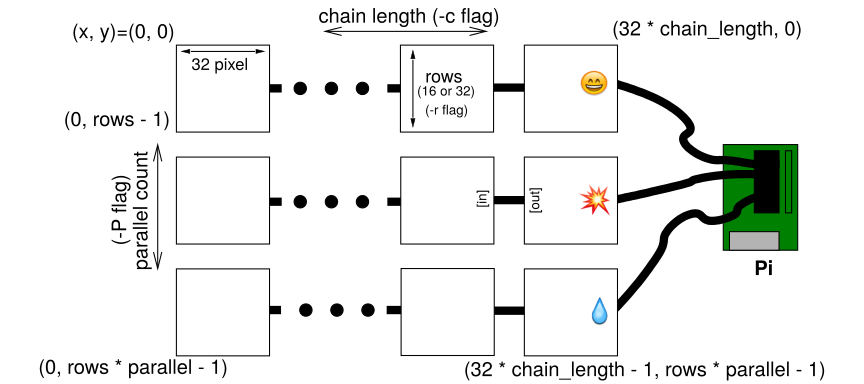
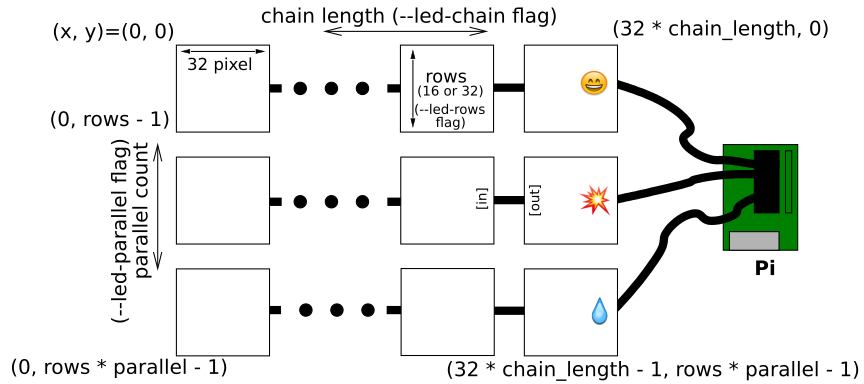
o First round in updating the documentation.

diff --git a/README.md b/README.md
@@ -52,13 +52,13 @@ Types of Displays
 There are various types of displays that come all with the same Hub75 connector.
 They vary in the way the multiplexing is happening.
 
-Type  | Scan Multiplexing | Program Option  | Remark
------:|:-----------------:|:----------------|-------
-64x64 |  1:32             | -r 64 -c 2      | For displays with E line.
-32x32 |  1:16             | -r 32           |
-32x64 |  1:16             | -r 32 -c 2      | internally two chained 32x32
-16x32 |  1:8              | -r 16           |
-?     |  1:4              | -r 8            | (not tested myself)
+Type  | Scan Multiplexing | Program Option               | Remark
+-----:|:-----------------:|:-----------------------------|-------
+64x64 |  1:32             | --led-rows=64 --led-chain=2  | For displays with E line.
+32x32 |  1:16             | --led-rows=32                |
+32x64 |  1:16             | --led-rows=32 --led-chain=2  | internally two chained 32x32
+16x32 |  1:8              | --led-rows=16                |
+?     |  1:4              | --led-rows=8                 | (not tested myself)
 
 These can be chained by connecting the output of one panel to the input of
 the next panel. You can chain quite a few together.
@@ -104,7 +104,7 @@ Chaining panels
 We might only have a limited amount of GPIOs on the Raspberry Pi, but luckily,
 the RGB matrices can be chained. The display panels have an input connector,
 and also have an output port, that you can connect to the next display in a
-daisy-chain manner. There is the flag `-c` in the demo program to give number
+daisy-chain manner. There is the flag `--led-chain` in the demo program to give number
 of displays that are chained.
 You end up with a very wide display (chain * 32 pixels).
 
@@ -176,38 +176,54 @@ If you encounter this, try these things
      slow down the GPIO writing a bit. This will of course reduce the
      frame-rate, so it comes at a cost.
 
-For GPIO slow-down, the following line in the [lib/Makefile](lib/Makefile)
-is interesting:
-
-     DEFINES+=-DRGB_SLOWDOWN_GPIO=1
+For GPIO slow-down, add the flag `--led-slowdown-gpio=2` to the invocation of
+the binary.
 
 The default value is 1, if you still have problems, try the value 2. If you
-know that your display is fast enough, try to comment out that line.
+know that your display is fast enough, use 0 (zero).
 
 Then `make` again.
 
 ### Ghosting
 Some panels have trouble with sharp contrasts and short pulses that results
 in ghosting. It is particularly apparent with very sharp contrasts, such as
-bright text on black background. This can be improved by tweaking the `LSB_PWM_NANOSECONDS`
-parameter in [lib/Makefile](./lib/Makefile). See description there for details.
+bright text on black background. This can be improved by tweaking the
+`--led-pwm-lsb-nanoseconds` parameter.
 
 The following example is a little exaggerated:
 
-Ghosting with low LSB_PWM_NANOSECONDS  | No ghosting after tweaking
----------------------------------------|------------------------------
-![](img/text-ghosting.jpg)             |![](img/text-no-ghosting.jpg)
+Ghosting with low --led-pwm-lsb-nanoseconds  | No ghosting after tweaking
+---------------------------------------------|------------------------------
+![](img/text-ghosting.jpg)                   |![](img/text-no-ghosting.jpg)
 
 ### Inverted Colors ?
 
 There are some displays out there that use inverse logic for the colors. You
 notice that your image looks like a 'negative'. The parameter to tweak is
-`INVERSE_RGB_DISPLAY_COLORS` in [lib/Makefile](./lib/Makefile).
+`--led-inverse`.
 
-### Check configuration in lib/Makefile
+### Check configuration via command line flags.
 
-There are lots of parameters in [lib/Makefile](./lib/Makefile) that you might
-be interested in tweaking.
+There are lots of parameters exposed as command line flags.
+```
+# These are the most important
+--led-rows=<rows>         : Panel rows. 8, 16, 32 or 64. (Default: 32).
+--led-chain=<chained>     : Number of daisy-chained panels. (Default: 1).
+--led-parallel=<parallel> : For A/B+ models or RPi2,3b: parallel chains. range=1..3 (Default: 1).
+
+# These are for tweaking
+--led-pwm-bits=<1..11>    : PWM bits (Default: 11).
+--led-brightness=<percent>: Brightness in percent (Default: 100).
+--led-scan-mode=<0..1>    : 0 = progressive; 1 = interlaced (Default: 0).
+--led-show-refresh        : Show refresh rate.
+--led-inverse             : Switch if your matrix has inverse colors on.
+--led-swap-green-blue     : Switch if your matrix has green/blue swapped on.
+--led-pwm-lsb-nanoseconds : PWM Nanoseconds for LSB (Default: 130)
+--led-no-hardware-pulse   : Don't use hardware pin-pulse generation.
+--led-slowdown-gpio=<0..2>: Slowdown GPIO. Needed for faster Pis and/or slower panels (Default: 1).
+--led-daemon              : Make the process run in the background as daemon.
+--led-no-drop-privs       : Don't drop privileges from 'root' after initializing the hardware.
+```
 
 If you have an Adafruit HAT
 ---------------------------
@@ -227,14 +243,13 @@ The Adafruit HAT uses a modified pinout, so they forked this library and
 modified the pinout there. However, that fork is _ancient_, so I strongly
 suggest to use this original library instead.
 
-In this library here, you have to uncomment the following line in
-the [lib/Makefile](./lib/Makefile)
+In this library here, you can choose the Adafruit HAT pinout by editing
+`lib/Makefile` and change `HARDWARE_DESC?=regular` to `HARDWARE_DESC=adafruit-hat`.
 
+Alternatively, you can prefix the compilation call with this variable like so:
 ```
-#DEFINES+=-DADAFRUIT_RGBMATRIX_HAT
+HARDWARE_DESC=adafruit-hat make
 ```
-Uncommenting means: remove the `#` in front of that line.
-
 Then re-compile and a display connected to the HAT should work.
 
 ### Improving flicker

diff --git a/examples-api-use/README.md b/examples-api-use/README.md
@@ -6,24 +6,25 @@ the display type you have (16x32 or 32x32), and how many you have chained.
 ```
 $ make
 $ ./demo
-Expected required option -D <demo>
 usage: ./demo <options> -D <demo-nr> [optional parameter]
 Options:
-        -r <rows>     : Panel rows. '16' for 16x32 (1:8 multiplexing),
-                        '32' for 32x32 (1:16), '8' for 1:4 multiplexing; Default: 32
-        -P <parallel> : For Plus-models or RPi2: parallel chains. 1..3. Default: 1
-        -c <chained>  : Daisy-chained boards. Default: 1.
-        -L            : 'Large' display, composed out of 4 times 32x32
-        -p <pwm-bits> : Bits used for PWM. Something between 1..11
-        -l            : Don't do luminance correction (CIE1931)
-        -D <demo-nr>  : Always needs to be set
-        -d            : run as daemon. Use this when starting in
-                        /etc/init.d, but also when running without
-                        terminal (e.g. cron).
-        -t <seconds>  : Run for these number of seconds, then exit.
-                        (if neither -d nor -t are supplied, waits for <RETURN>)
-        -b <brightnes>: Sets brightness percent. Default: 100.
-        -R <rotation> : Sets the rotation of matrix. Allowed: 0, 90, 180, 270. Default: 0.
+        -D <demo-nr>              : Always needs to be set
+        -t <seconds>              : Run for these number of seconds, then exit.
+        -R <rotation>             : Sets the rotation of matrix. Allowed: 0, 90, 180, 270. Default: 0.
+        --led-rows=<rows>         : Panel rows. 8, 16, 32 or 64. (Default: 32).
+        --led-chain=<chained>     : Number of daisy-chained panels. (Default: 1).
+        --led-parallel=<parallel> : For A/B+ models or RPi2,3b: parallel chains. range=1..3 (Default: 1).
+        --led-pwm-bits=<1..11>    : PWM bits (Default: 11).
+        --led-brightness=<percent>: Brightness in percent (Default: 100).
+        --led-scan-mode=<0..1>    : 0 = progressive; 1 = interlaced (Default: 0).
+        --led-show-refresh        : Show refresh rate.
+        --led-inverse             : Switch if your matrix has inverse colors on.
+        --led-swap-green-blue     : Switch if your matrix has green/blue swapped on.
+        --led-pwm-lsb-nanoseconds : PWM Nanoseconds for LSB (Default: 130)
+        --led-no-hardware-pulse   : Don't use hardware pin-pulse generation.
+        --led-slowdown-gpio=<0..2>: Slowdown GPIO. Needed for faster Pis and/or slower panels (Default: 1).
+        --led-daemon              : Make the process run in the background as daemon.
+        --led-no-drop-privs       : Don't drop privileges from 'root' after initializing the hardware.
 Demos, choosen with -D
         0  - some rotating square
         1  - forward scrolling an image (-m <scroll-ms>)

diff --git a/adapter/passive-3/README.md b/adapter/passive-3/README.md
@@ -1,7 +1,7 @@
 Adapter PCB to support up to 3 panel chains
 ===========================================
 
-   * Passive board. Simple, but might need to define `RGB_SLOWDOWN_GPIO` if you see
+   * Passive board. Simple, but might need to define `--led-slowdown-gpio` if you see
      glitches. Consider using the [active board](../active-3) in that case.
    * Only really advisable, if the LED panels have 74HCT245 (as opposed to just
      74HC245) in their input stage, because then they can deal properly with

diff --git a/adapter/passive-rpi1/README.md b/adapter/passive-rpi1/README.md
@@ -1,7 +1,7 @@
 Adapter PCB to connect to Rasbperry Pi1
 =======================================
 
-   * Passive board. Simple, but might need to define `RGB_SLOWDOWN_GPIO` if you see
+   * Passive board. Simple, but might need to define `--led-slowdown-gpio` if you see
      glitches.
    * Supports one panel connected to a 26 pin Raspberry Pi 1. If you have a newer RPi,
      check out the [Passive 3](../passive-3) or [Active 3](../active-3) adapter.

diff --git a/utils/README.md b/utils/README.md
@@ -13,4 +13,5 @@ Then, you can run it with any common image format, including animated gifs:
     sudo ./led-image-viewer myimage.gif
 
 It also supports the standard options to specify the connected
-displays (`-r`, `-c`, `-P`).
+displays (e.g. `--led-rows`, `--led-chain`, `--led-parallel` but also many more tweak
+flags).
